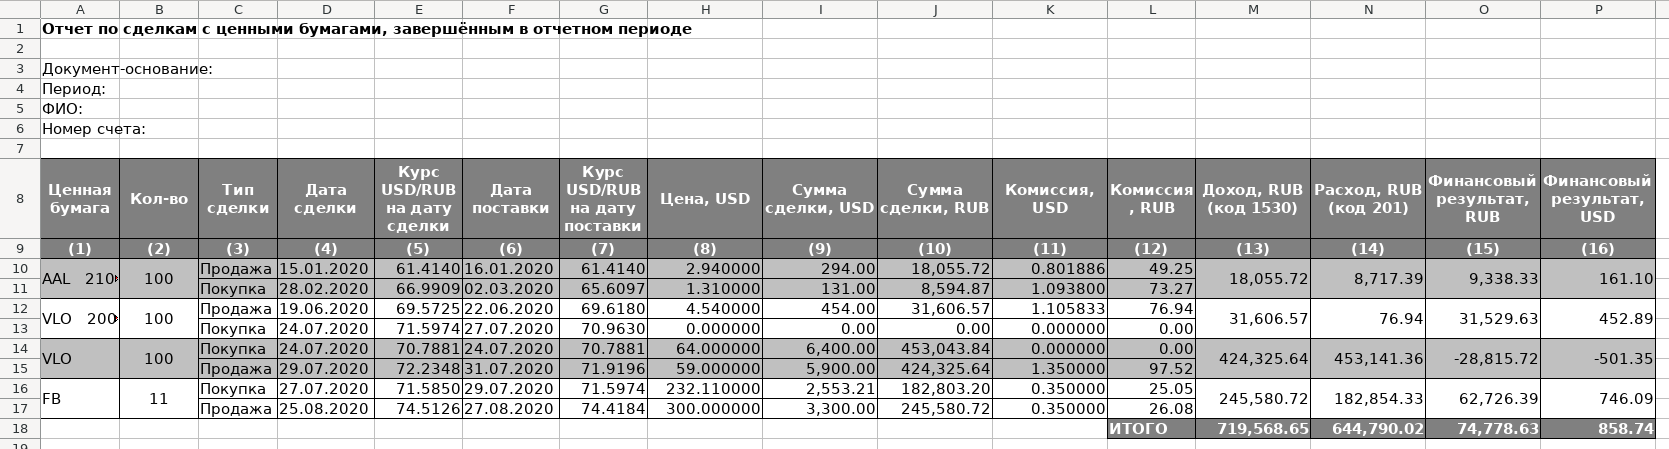
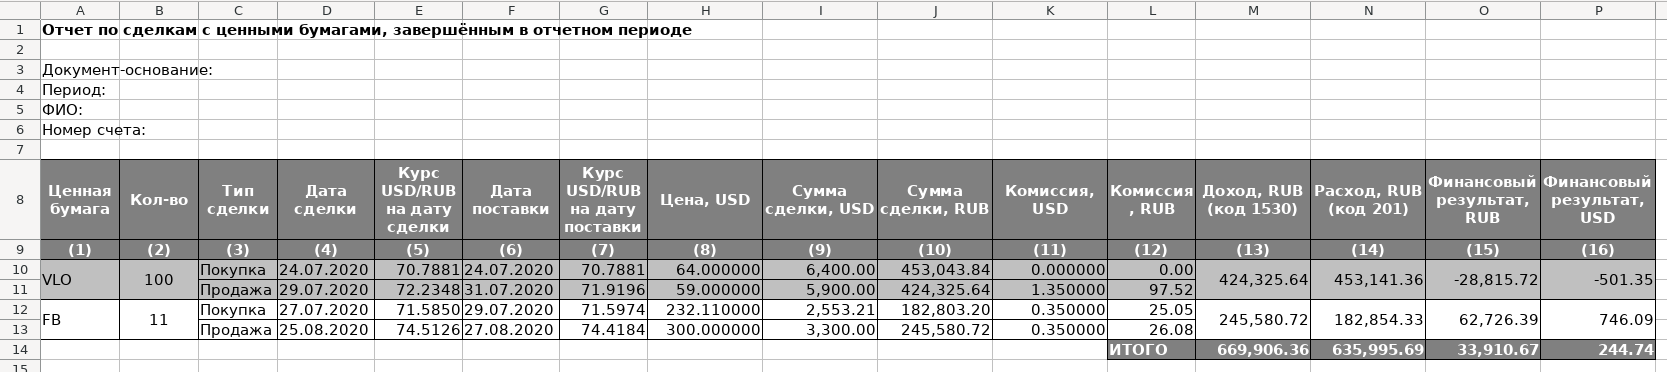
Operations with stocks and derivatives were segregated in russian 3-NDFL tax report form (Closed #8)

diff --git a/jal/reports/taxes.py b/jal/reports/taxes.py
@@ -100,7 +100,8 @@ class TaxesRus:
         self.broker_name = ''
         self.reports = {
             "Дивиденды": self.prepare_dividends,
-            "Сделки": self.prepare_trades,
+            "Сделки с ЦБ": self.prepare_trades,
+            "Сделки с ПФИ": self.prepare_derivatives,
             "Комиссии": self.prepare_broker_fees,
             "Корп.события": self.prepare_corporate_actions
         }
@@ -319,6 +320,7 @@ class TaxesRus:
                            "LEFT JOIN t_last_dates AS ldcs ON c.settlement=ldcs.ref_id "
                            "LEFT JOIN quotes AS qcs ON ldcs.timestamp=qcs.timestamp AND a.currency_id=qcs.asset_id "
                            "WHERE c.timestamp>=:begin AND c.timestamp<:end AND d.account_id=:account_id "
+                           "AND s.type_id >= 2 AND s.type_id <= 4 "  # To select only stocks/bonds/ETFs
                            "ORDER BY o.timestamp, c.timestamp",
                            [(":begin", begin), (":end", end), (":account_id", account_id)])
         start_row = 9
@@ -383,6 +385,151 @@ class TaxesRus:
         sheet.write_formula(row, 13, f"=SUM(N{start_row + 1}:N{row})", formats.ColumnFooter())
         sheet.write_formula(row, 14, f"=SUM(O{start_row + 1}:O{row})", formats.ColumnFooter())
         sheet.write_formula(row, 15, f"=SUM(P{start_row + 1}:P{row})", formats.ColumnFooter())
+
+    # -----------------------------------------------------------------------------------------------------------------------
+    # TODO optimize common elemets of all prepare_* methods
+    def prepare_derivatives(self, sheet, statement, account_id, begin, end, formats):
+        self.add_report_header(sheet, formats,
+                               "Отчет по сделкам с производными финансовыми инструментами, завершённым в отчетном периоде")
+        _ = executeSQL(self.db, "DELETE FROM t_last_dates")
+        _ = executeSQL(self.db,
+                       "INSERT INTO t_last_dates(ref_id, timestamp) "
+                       "SELECT ref_id, coalesce(MAX(q.timestamp), 0) AS timestamp "
+                       "FROM (SELECT t.timestamp AS ref_id "
+                       "FROM deals AS d "
+                       "LEFT JOIN sequence AS s ON (s.id=d.open_sid OR s.id=d.close_sid) AND s.type = 3 "
+                       "LEFT JOIN trades AS t ON s.operation_id=t.id "
+                       "WHERE t.timestamp<:end AND d.account_id=:account_id "
+                       "UNION "
+                       "SELECT c.settlement AS ref_id "
+                       "FROM deals AS d "
+                       "LEFT JOIN sequence AS s ON (s.id=d.open_sid OR s.id=d.close_sid) AND s.type = 3 "
+                       "LEFT JOIN trades AS c ON s.operation_id=c.id "
+                       "WHERE c.timestamp<:end AND d.account_id=:account_id "
+                       "UNION "
+                       "SELECT o.timestamp AS ref_id "
+                       "FROM deals AS d "
+                       "LEFT JOIN sequence AS s ON (s.id=d.open_sid OR s.id=d.close_sid) AND s.type = 5 "
+                       "LEFT JOIN corp_actions AS o ON s.operation_id=o.id "
+                       "WHERE o.timestamp<:end AND d.account_id=:account_id) "
+                       "LEFT JOIN accounts AS a ON a.id = :account_id "
+                       "LEFT JOIN quotes AS q ON ref_id >= q.timestamp AND a.currency_id=q.asset_id "
+                       "GROUP BY ref_id",
+                       [(":end", end), (":account_id", account_id)])
+        self.db.commit()
+
+        header_row = {
+            0: ("Ценная бумага", formats.ColumnHeader(), 22, 0, 0),
+            1: ("Кол-во", formats.ColumnHeader(), 8, 0, 0),
+            2: ("Тип сделки", formats.ColumnHeader(), 8, 0, 0),
+            3: ("Дата сделки", formats.ColumnHeader(), 10, 0, 0),
+            4: ("Курс USD/RUB на дату сделки", formats.ColumnHeader(), 9, 0, 0),
+            5: ("Дата поставки", formats.ColumnHeader(), 10, 0, 0),
+            6: ("Курс USD/RUB на дату поставки", formats.ColumnHeader(), 9, 0, 0),
+            7: ("Цена, USD", formats.ColumnHeader(), 12, 0, 0),
+            8: ("Сумма сделки, USD", formats.ColumnHeader(), 12, 0, 0),
+            9: ("Сумма сделки, RUB", formats.ColumnHeader(), 12, 0, 0),
+            10: ("Комиссия, USD", formats.ColumnHeader(), 12, 0, 0),
+            11: ("Комиссия, RUB", formats.ColumnHeader(), 9, 0, 0),
+            12: ("Доход, RUB (код 1532)", formats.ColumnHeader(), 12, 0, 0),
+            13: ("Расход, RUB (код 206)", formats.ColumnHeader(), 12, 0, 0),
+            14: ("Финансовый результат, RUB", formats.ColumnHeader(), 12, 0, 0),
+            15: ("Финансовый результат, USD", formats.ColumnHeader(), 12, 0, 0)
+        }
+        xlsxWriteRow(sheet, 7, header_row, 60)
+        for column in range(len(header_row)):  # Put column numbers for reference
+            header_row[column] = (f"({column + 1})", formats.ColumnHeader())
+        xlsxWriteRow(sheet, 8, header_row)
+
+        # Take all actions without conversion
+        query = executeSQL(self.db,
+                           "SELECT s.name AS symbol, d.qty AS qty, "
+                           "o.timestamp AS o_date, qo.quote AS o_rate, o.settlement AS os_date, "
+                           "qos.quote AS os_rate, o.price AS o_price, o.qty AS o_qty, o.fee AS o_fee, "
+                           "c.timestamp AS c_date, qc.quote AS c_rate, c.settlement AS cs_date, "
+                           "qcs.quote AS cs_rate, c.price AS c_price, c.qty AS c_qty, c.fee AS c_fee "
+                           "FROM deals AS d "
+                           "JOIN sequence AS os ON os.id=d.open_sid AND os.type = 3 "
+                           "LEFT JOIN trades AS o ON os.operation_id=o.id "
+                           "JOIN sequence AS cs ON cs.id=d.close_sid AND cs.type = 3 "
+                           "LEFT JOIN trades AS c ON cs.operation_id=c.id "
+                           "LEFT JOIN assets AS s ON o.asset_id=s.id "
+                           "LEFT JOIN accounts AS a ON a.id = :account_id "
+                           "LEFT JOIN t_last_dates AS ldo ON o.timestamp=ldo.ref_id "
+                           "LEFT JOIN quotes AS qo ON ldo.timestamp=qo.timestamp AND a.currency_id=qo.asset_id "
+                           "LEFT JOIN t_last_dates AS ldos ON o.settlement=ldos.ref_id "
+                           "LEFT JOIN quotes AS qos ON ldos.timestamp=qos.timestamp AND a.currency_id=qos.asset_id "
+                           "LEFT JOIN t_last_dates AS ldc ON c.timestamp=ldc.ref_id "
+                           "LEFT JOIN quotes AS qc ON ldc.timestamp=qc.timestamp AND a.currency_id=qc.asset_id "
+                           "LEFT JOIN t_last_dates AS ldcs ON c.settlement=ldcs.ref_id "
+                           "LEFT JOIN quotes AS qcs ON ldcs.timestamp=qcs.timestamp AND a.currency_id=qcs.asset_id "
+                           "WHERE c.timestamp>=:begin AND c.timestamp<:end AND d.account_id=:account_id "
+                           "AND s.type_id == 6 "  # To select only derivatives
+                           "ORDER BY o.timestamp, c.timestamp",
+                           [(":begin", begin), (":end", end), (":account_id", account_id)])
+        start_row = 9
+        data_row = 0
+        while query.next():
+            deal = readSQLrecord(query, named=True)
+            row = start_row + (data_row * 2)
+            o_deal_type = "Покупка" if deal['qty'] >= 0 else "Продажа"
+            c_deal_type = "Продажа" if deal['qty'] >= 0 else "Покупка"
+            o_amount_usd = round(deal['o_price'] * abs(deal['qty']), 2)
+            o_amount_rub = round(o_amount_usd * deal['o_rate'], 2) if deal['o_rate'] else 0
+            c_amount_usd = round(deal['c_price'] * abs(deal['qty']), 2)
+            c_amount_rub = round(c_amount_usd * deal['c_rate'], 2) if deal['c_rate'] else 0
+            o_fee_usd = deal['o_fee'] * abs(deal['qty'] / deal['o_qty'])
+            c_fee_usd = deal['c_fee'] * abs(deal['qty'] / deal['c_qty'])
+            o_fee_rub = round(o_fee_usd * deal['os_rate'], 2) if deal['os_rate'] else 0
+            c_fee_rub = round(c_fee_usd * deal['cs_rate'], 2) if deal['cs_rate'] else 0
+            income = c_amount_rub if deal['qty'] >= 0 else o_amount_rub
+            income_usd = c_amount_usd if deal['qty'] >= 0 else o_amount_usd
+            spending = o_amount_rub if deal['qty'] >= 0 else c_amount_rub
+            spending_usd = o_amount_usd if deal['qty'] >= 0 else c_amount_usd
+            spending = spending + o_fee_rub + c_fee_rub
+            spending_usd = spending_usd + o_fee_usd + c_fee_usd
+            xlsxWriteRow(sheet, row, {
+                0: (deal['symbol'], formats.Text(data_row), 0, 0, 1),
+                1: (float(abs(deal['qty'])), formats.Number(data_row, 0, True), 0, 0, 1),
+                2: (o_deal_type, formats.Text(data_row)),
+                3: (datetime.fromtimestamp(deal['o_date']).strftime('%d.%m.%Y'), formats.Text(data_row)),
+                4: (deal['os_rate'], formats.Number(data_row, 4)),
+                5: (datetime.fromtimestamp(deal['os_date']).strftime('%d.%m.%Y'), formats.Text(data_row)),
+                6: (deal['o_rate'], formats.Number(data_row, 4)),
+                7: (deal['o_price'], formats.Number(data_row, 6)),
+                8: (o_amount_usd, formats.Number(data_row, 2)),
+                9: (o_amount_rub, formats.Number(data_row, 2)),
+                10: (o_fee_usd, formats.Number(data_row, 6)),
+                11: (o_fee_rub, formats.Number(data_row, 2)),
+                12: (income, formats.Number(data_row, 2), 0, 0, 1),
+                13: (spending, formats.Number(data_row, 2), 0, 0, 1),
+                14: (income - spending, formats.Number(data_row, 2), 0, 0, 1),
+                15: (income_usd - spending_usd, formats.Number(data_row, 2), 0, 0, 1)
+            })
+            xlsxWriteRow(sheet, row + 1, {
+                2: (c_deal_type, formats.Text(data_row)),
+                3: (datetime.fromtimestamp(deal['c_date']).strftime('%d.%m.%Y'), formats.Text(data_row)),
+                4: (deal['cs_rate'], formats.Number(data_row, 4)),
+                5: (datetime.fromtimestamp(deal['cs_date']).strftime('%d.%m.%Y'), formats.Text(data_row)),
+                6: (deal['c_rate'], formats.Number(data_row, 4)),
+                7: (deal['c_price'], formats.Number(data_row, 6)),
+                8: (c_amount_usd, formats.Number(data_row, 2)),
+                9: (c_amount_rub, formats.Number(data_row, 2)),
+                10: (c_fee_usd, formats.Number(data_row, 6)),
+                11: (c_fee_rub, formats.Number(data_row, 2))
+            })
+            # TODO replace 'us' with value depandable on broker account
+            if statement is not None:
+                statement.add_derivative_profit('us', self.broker_name, deal['c_date'], self.account_currency,
+                                                income_usd, income, spending, deal['c_rate'])
+            data_row = data_row + 1
+        row = start_row + (data_row * 2)
+        sheet.write(row, 11, "ИТОГО", formats.ColumnFooter())
+        sheet.write_formula(row, 12, f"=SUM(M{start_row + 1}:M{row})", formats.ColumnFooter())
+        sheet.write_formula(row, 13, f"=SUM(N{start_row + 1}:N{row})", formats.ColumnFooter())
+        sheet.write_formula(row, 14, f"=SUM(O{start_row + 1}:O{row})", formats.ColumnFooter())
+        sheet.write_formula(row, 15, f"=SUM(P{start_row + 1}:P{row})", formats.ColumnFooter())
+
 
 # -----------------------------------------------------------------------------------------------------------------------
     def prepare_broker_fees(self, sheet, _statement, account_id, begin, end, formats):

diff --git a/jal/reports/dlsg.py b/jal/reports/dlsg.py
@@ -196,7 +196,7 @@ class DLSG:
         foreign_section = self.get_section('DeclForeign')
         if foreign_section is None:
             return
-        country_code, currency_code =self.get_country_currency(country, currency_name)
+        country_code, currency_code = self.get_country_currency(country, currency_name)
         source = "Дивиденд от " + description
         foreign_section.add_income(self.codes['dividend'], country_code, source, timestamp,
                                    currency_code, amount, amount_rub, tax, tax_rub, rate)
@@ -207,8 +207,18 @@ class DLSG:
         foreign_section = self.get_section('DeclForeign')
         if foreign_section is None:
             return
-        country_code, currency_code =self.get_country_currency(country, currency_name)
+        country_code, currency_code = self.get_country_currency(country, currency_name)
         foreign_section.add_income(self.codes['stock'], country_code, source, timestamp,
+                                   currency_code, amount, income_rub, 0.0, 0.0, rate, deduction=spending_rub)
+
+    def add_derivative_profit(self, country, source, timestamp, currency_name, amount, income_rub, spending_rub, rate):
+        if self._only_dividends:
+            return
+        foreign_section = self.get_section('DeclForeign')
+        if foreign_section is None:
+            return
+        country_code, currency_code = self.get_country_currency(country, currency_name)
+        foreign_section.add_income(self.codes['derivative'], country_code, source, timestamp,
                                    currency_code, amount, income_rub, 0.0, 0.0, rate, deduction=spending_rub)
 
     def get_country_currency(self, country, currency_name):

diff --git a/docs/ru-tax-3ndfl/taxes.md b/docs/ru-tax-3ndfl/taxes.md
@@ -1,7 +1,9 @@
 ### Инструкция по подготовке данных для декларации 3-НДФЛ для Interactive Brokers
 
 *Данная инструкция представлена здесь в ознакомительных целях.  
-Данное програмное обеспечение было создано для использования в личных целях и я не могу гарантировать 100% корректность его работы, т.к. у меня недо дочтаточного количества примеров коротких продаж, операций с опционами, корпоративных событий и специфических комиссий Interactive Brokers.*
+Данное програмное обеспечение было создано для использования в личных целях и большая часть расчетов тестировалась с дивидендами и длинными позициями в долларах.  
+Другие валюта, а так же короткие продажи, операции с опционами, корпоративных событие и специфические комиссии Interactive Brokers поддерживаются, но могут иметь недочёты, т.к. у меня не было достаточного количества примеров, чтобы протестировать все варианты.*
+
 
 *Вы можете использовать его свободно, но с обязательной ссылкой на https://github.com/titov-vv/jal в случае публикации в сети Интернет   
 Информация об ошибках, замечания и пожелания приветствуются.*
@@ -66,11 +68,13 @@
 10. [Получившийся Excel-файл с расчётом](https://github.com/titov-vv/jal/blob/master/docs/ru-tax-3ndfl/3ndfl_tax_report.xlsx) содержит 4 закладки:  
     - Расчёт дивидендов  
     ![Report Dividends](https://github.com/titov-vv/jal/blob/master/docs/ru-tax-3ndfl/img/report_1.png?raw=true)
-    - Расчёт сделок  
+    - Расчёт сделок с ценными бумагами 
     ![Report Deals](https://github.com/titov-vv/jal/blob/master/docs/ru-tax-3ndfl/img/report_2.png?raw=true)
+    - Расчёт сделок с производными финансовыми инструментами
+    ![Report Derivatives](https://github.com/titov-vv/jal/blob/master/docs/ru-tax-3ndfl/img/report_3.png?raw=true)
     - Расчёт комиссий и прочих операций  
-    ![Report Fees](https://github.com/titov-vv/jal/blob/master/docs/ru-tax-3ndfl/img/report_3.png?raw=true)
+    ![Report Fees](https://github.com/titov-vv/jal/blob/master/docs/ru-tax-3ndfl/img/report_4.png?raw=true)
     - Расчёт по корпоративным событиям  
-    ![Report Corporate Actions](https://github.com/titov-vv/jal/blob/master/docs/ru-tax-3ndfl/img/report_4.png?raw=true)
+    ![Report Corporate Actions](https://github.com/titov-vv/jal/blob/master/docs/ru-tax-3ndfl/img/report_5.png?raw=true)
     
 
